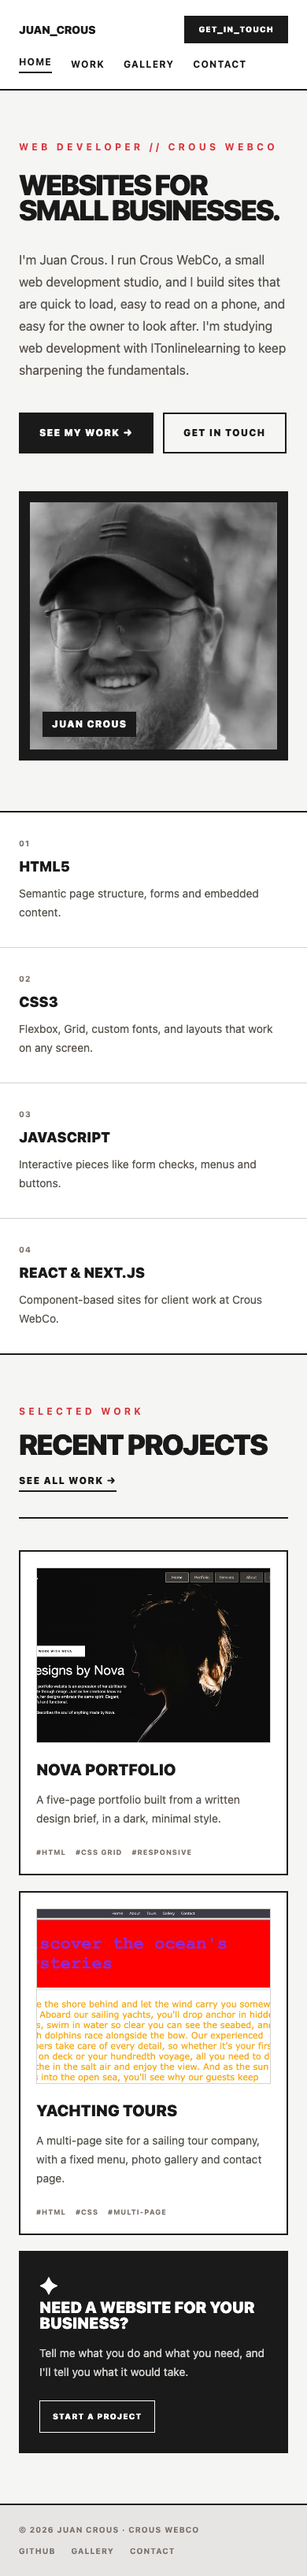
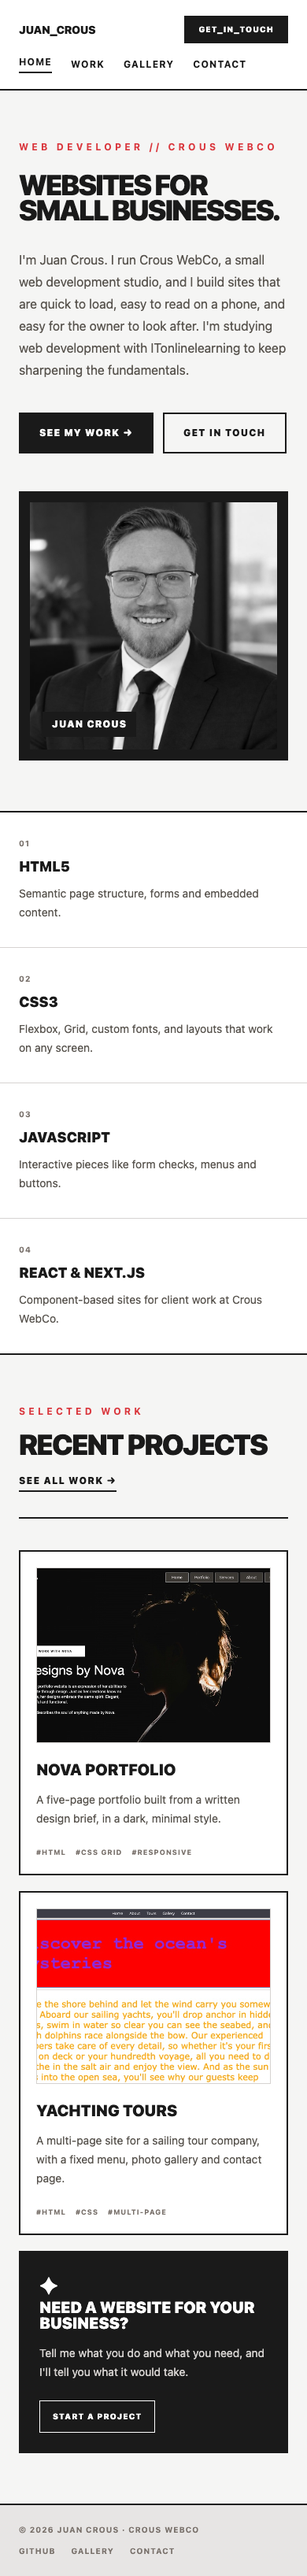
Use the new headshot, and add the video script and CV wording

Changed region(s): [[0.0923, 0.187, 0.9231, 0.3117]]

diff --git a/Portfolio Checkpoint/video-script.md b/Portfolio Checkpoint/video-script.md
@@ -1,0 +1,58 @@
+# Video walkthrough: script and shot list
+
+For the YouTube walkthrough the checkpoint asks for. Aim for **three to four minutes**. Don't read this word for word — it's here so you know what to click and roughly what to cover.
+
+**Before you record**
+- Open the live site: https://crouswebco-max.github.io/itonlinelearning-coursework/Portfolio%20Checkpoint/
+- Close other tabs, and hide your bookmarks bar.
+- Have the code open in VS Code in a second window, on `home.html`.
+- Record at 1920×1080 if you can. QuickTime (**File → New Screen Recording**) or OBS both work.
+
+---
+
+## 1. Opening (20 seconds)
+
+*On the home page.*
+
+Say who you are and what this is: your portfolio, built with Tailwind CSS as the checkpoint project for the ITonlinelearning course. Mention it's four pages and it's live on GitHub Pages.
+
+## 2. The home page (40 seconds)
+
+*Scroll slowly from the hero down to the footer.*
+
+Point out the hero with your photo, the four-column strip of what you work with, and the featured projects. Hover a project card so the photo zooms — mention that's `group-hover:scale-105` with `overflow-hidden` on the box.
+
+## 3. Show it working on a phone (30 seconds)
+
+*Drag the browser window narrower, or open DevTools (Cmd+Option+I) and switch on the device toolbar.*
+
+This is the bit tutors and clients care about most. Show the menu wrapping onto its own row and the columns stacking. Say that Tailwind handles it with prefixes like `sm:` and `lg:`, so one class controls one screen size.
+
+## 4. The other three pages (50 seconds)
+
+- **Work** — your two client sites and four course projects.
+- **Gallery** — the nine-image grid, one column on a phone, two on a tablet, three on a computer. Hover a photo to bring its colour back.
+- **Contact** — the form, and be honest that it isn't connected to anything yet.
+
+## 5. A look at the code (50 seconds)
+
+*Switch to VS Code, on `home.html`.*
+
+Show one element's class list and read out what a few of them do, for example `border-2 border-deep-charcoal bg-white p-5`. Then scroll to the `@theme` block in the `<head>` and explain that's where `brand-red` and `deep-charcoal` come from, which is why `bg-brand-red` works like a built-in colour.
+
+Worth saying out loud: at first the long class lists looked messy to you, and what changed your mind was not having to jump between two files to make one change.
+
+## 6. Close (20 seconds)
+
+Say where it lives (GitHub Pages), what you'd do next (connect the contact form, write up the client projects properly), and ask people to leave a comment.
+
+---
+
+## Checklist before you upload
+
+- [ ] Sound is clear, no background noise
+- [ ] No personal tabs, emails or messages on screen
+- [ ] Title: something like "Building a portfolio site with Tailwind CSS"
+- [ ] Description includes the live link and the GitHub link
+- [ ] Set to Public or Unlisted, not Private, so your tutor can open it
+- [ ] Add the video link to `README.md` in this folder once it's up

diff --git a/Portfolio Checkpoint/cv-entries.md b/Portfolio Checkpoint/cv-entries.md
@@ -1,0 +1,30 @@
+# CV and portfolio entries
+
+Wording you can drop straight into your CV, LinkedIn profile or a job application. Trim to fit — most CVs give a project two or three lines.
+
+## Links to include
+
+- **Portfolio:** https://crouswebco-max.github.io/itonlinelearning-coursework/Portfolio%20Checkpoint/
+- **GitHub:** https://github.com/crouswebco-max
+
+## Projects section
+
+**Portfolio website — Tailwind CSS**
+Designed and built a four-page portfolio with Tailwind CSS, including a custom colour theme, responsive layouts from phone to desktop, and hover states throughout. Deployed with GitHub Pages.
+
+**Nova design portfolio — HTML & CSS**
+Built a five-page website from a written client brief and a set of design mock-ups, matching the supplied layout, typography and spacing. Includes eight individual project pages and a responsive layout.
+
+**Design-to-HTML conversion**
+Converted a supplied 1366px design into a working responsive page, measuring colours and spacing directly from the design file and checking the finished build against it. Final layout landed within about 3px of the original.
+
+**HTML email template**
+Coded a responsive newsletter template using table layouts and inline CSS for email client compatibility, with a bulletproof button, hidden preheader text and a plain-text alternative.
+
+## Skills line
+
+HTML5, CSS3 (Flexbox, Grid, animations), Tailwind CSS, Bootstrap, JavaScript basics, responsive design, web accessibility, Git and GitHub.
+
+## Short "about" paragraph
+
+Web developer running Crous WebCo, building websites for small businesses and independent professionals. Currently studying web development with ITonlinelearning, with a focus on clean, accessible code and sites that work as well on a phone as on a desktop.

diff --git a/Portfolio Checkpoint/README.md b/Portfolio Checkpoint/README.md
@@ -47,9 +47,9 @@ Then visit `http://localhost:8000`.
 - [x] Add the live URL to this README
 - [x] Desktop and mobile screenshots taken (`screenshots/`)
 - [ ] Write and publish the blog post — draft ready in `blog-post.md`
-- [ ] Record and publish the YouTube walkthrough
+- [ ] Record and publish the YouTube walkthrough — script ready in `video-script.md`
 - [ ] Share on LinkedIn and social media — draft ready in `social-post.md`
-- [ ] Add the project links to the CV and portfolio
+- [ ] Add the project links to the CV and portfolio — wording ready in `cv-entries.md`
 
 ## Extra files
 
@@ -57,4 +57,6 @@ Then visit `http://localhost:8000`.
 |---|---|
 | `blog-post.md` | Draft of the blog post, to put in your own words |
 | `social-post.md` | Draft LinkedIn and short social posts |
+| `video-script.md` | Shot list and script for the walkthrough video |
+| `cv-entries.md` | Project wording for your CV and LinkedIn profile |
 | `screenshots/` | Desktop and mobile screenshots of every page |
